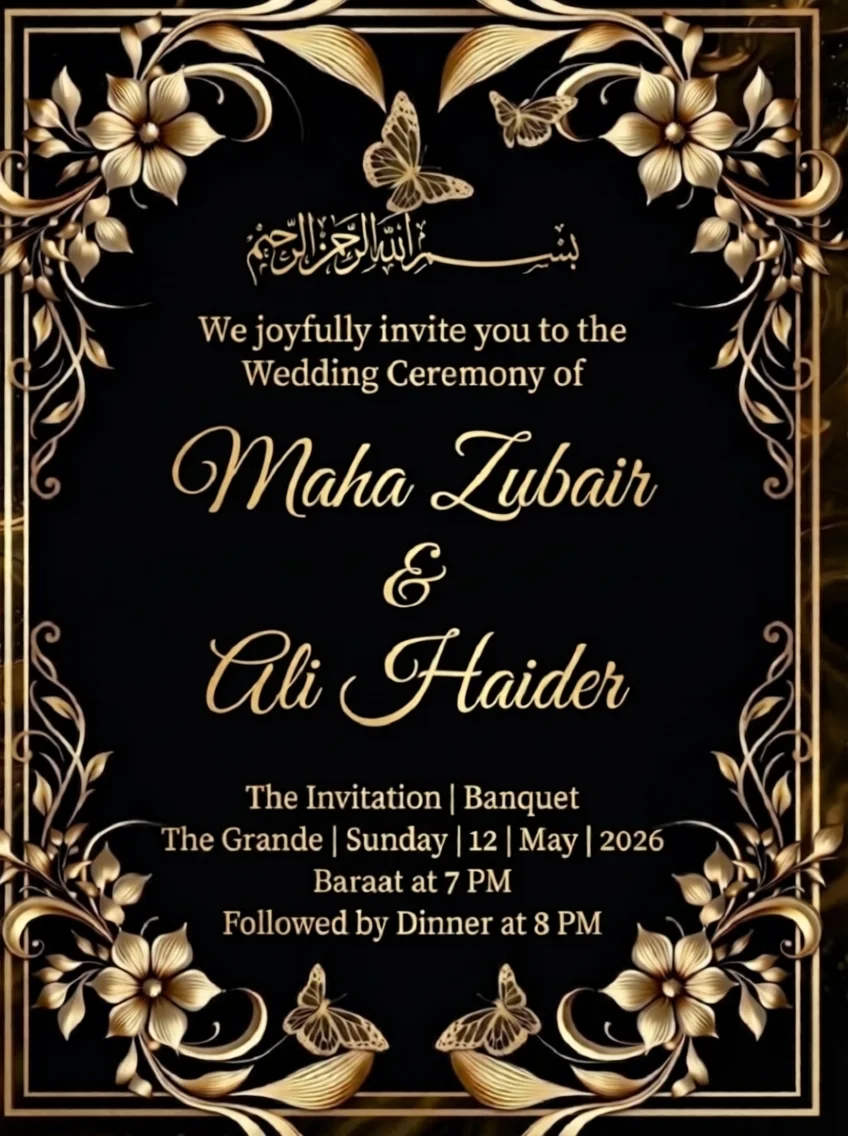
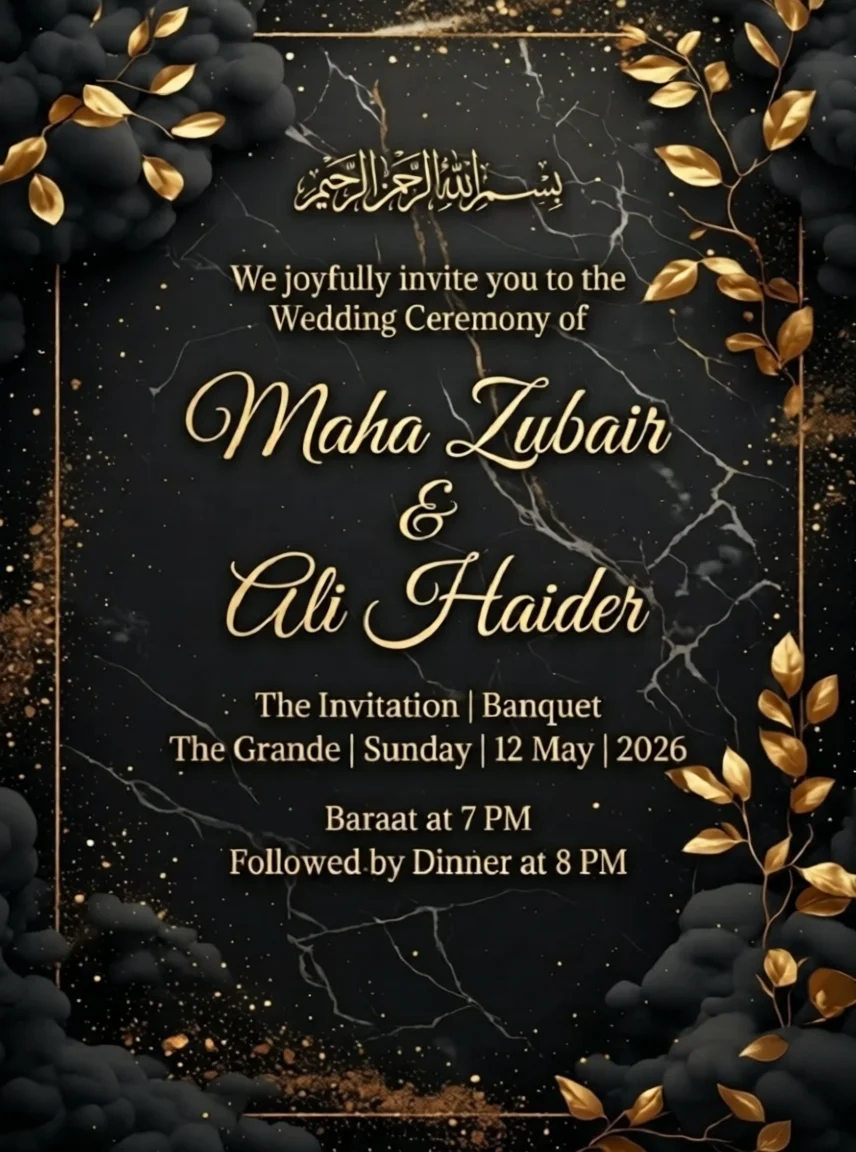
updated

diff --git a/src/components/Guestbook.tsx b/src/components/Guestbook.tsx
@@ -2,7 +2,7 @@ import { useEffect, useState } from "react";
 import { X } from "lucide-react";
 import { supabase } from "@/integrations/supabase/client";
 
-const CURRENT_PROJECT_ID = "Hania-Ali-Valima"; // Change this string for your next client
+const CURRENT_PROJECT_ID = "black and golden"; // Change this string for your next client
 type Message = {
   id: string;
   name: string;
